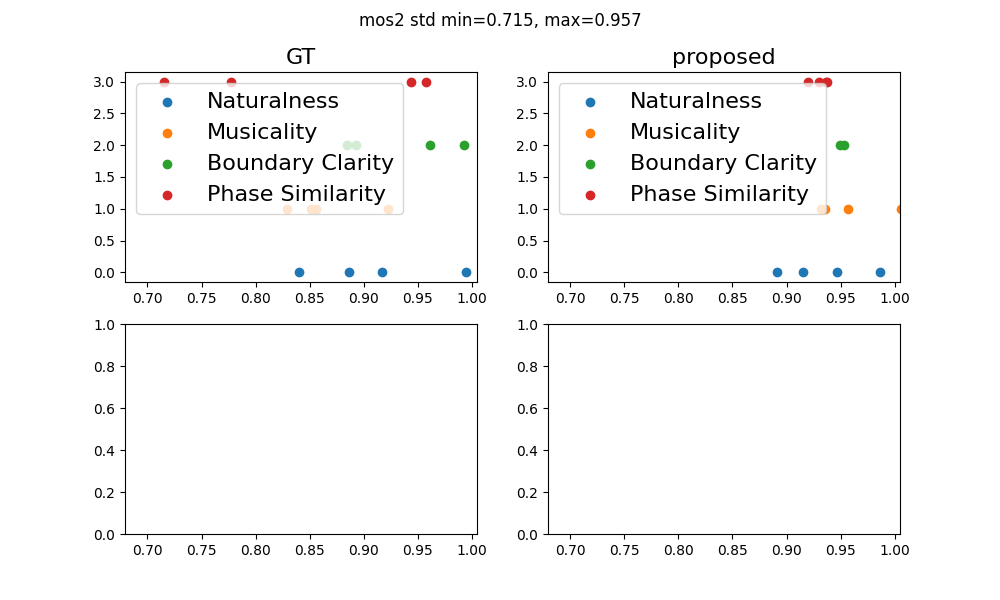
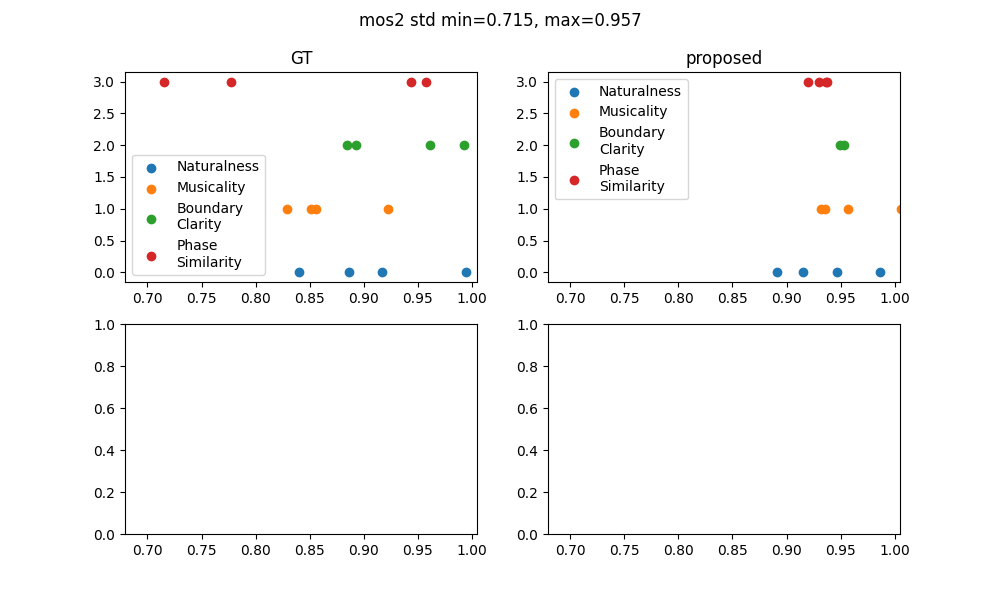
フォントサイズ調整

diff --git a/results/analysis.py b/results/analysis.py
@@ -21,9 +21,9 @@ SYSTEM_COLORS = {"ba": "#FF8437", "pr": "#9DE16F", "po": "#53AFFE", "hu": "#DE70
 
 QUESTION_NAMES = {
     "mos1": ["Naturalness", "Musicality", " Creativity"],
-    "mos2": ["Naturalness", "Musicality", "Boundary Clarity", "Phase Similarity"],
+    "mos2": ["Naturalness", "Musicality", "Boundary\nClarity", "Phase\nSimilarity"],
 }
-FONT_SIZE = 16
+FONT_SIZE = 23
 
 
 def graph(grouped_values, filename, type_="mos1"):
@@ -77,10 +77,10 @@ def graph(grouped_values, filename, type_="mos1"):
                 np.ones_like(std[:, j]) * j,
                 label=QUESTION_NAMES[type_][j],
             )
-        ax.set_title(SYSTEM_NAMES[key], fontsize=FONT_SIZE)
+        ax.set_title(SYSTEM_NAMES[key])
         tmp_max.append(np.max(std[:, j]))
         tmp_min.append(np.min(std[:, j]))
-        ax.legend(fontsize=FONT_SIZE)
+        ax.legend()
     for ax in axes.flatten():
         ax.set_xlim(min(tmp_min) * 0.95, max(tmp_max) * 1.05)
     fig.suptitle(f"{type_} std min={min(tmp_min):.3f}, max={max(tmp_max):.3f}")
